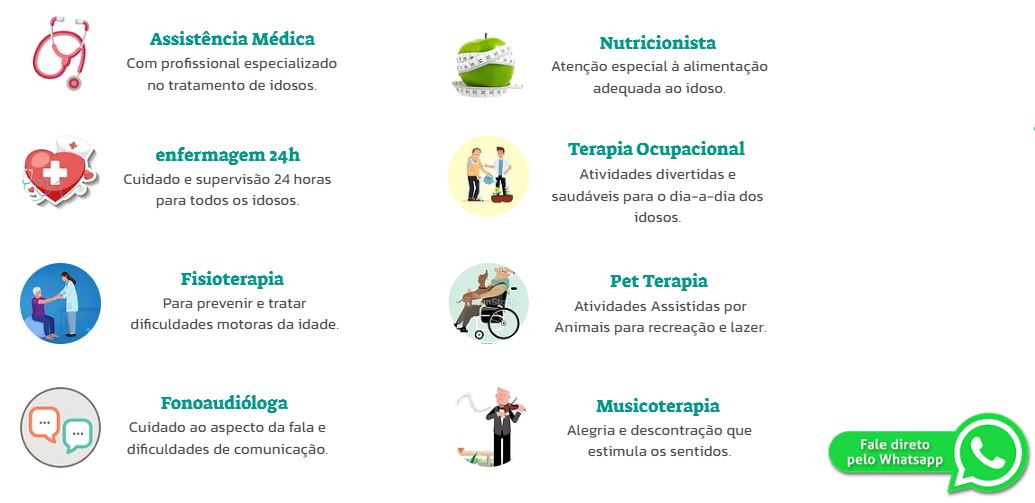
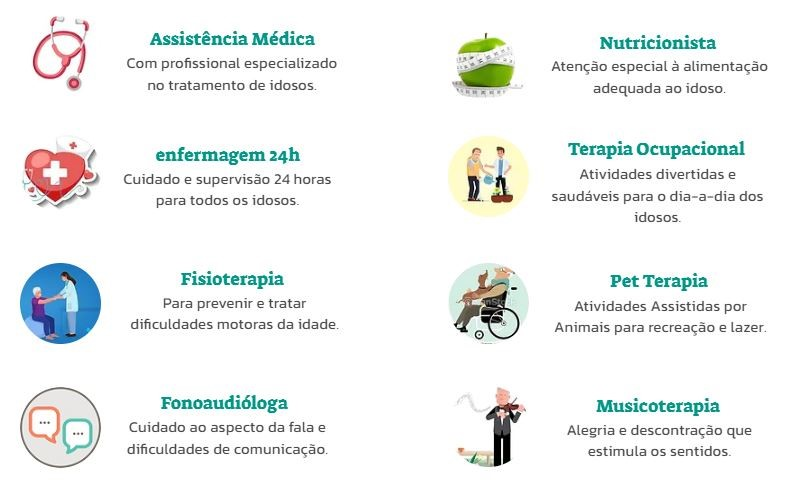
Redimencionar imagem da tela de seriviços

diff --git a/public/servicos.html b/public/servicos.html
@@ -115,7 +115,7 @@
         <div class="text-center pt-10">
             <div class="row shc">
                 <div>
-                    <img src="imagem03.jpg" align="right" style="width: 80%; height: auto;">
+                    <img src="imagem03.jpg" style="width: 60%; height: auto;">
                 </div>
 
                 <div class="col-md-12 shc">
@@ -127,12 +127,13 @@
                     </section>
 
                     <section id="listaDepoimentos">
-
+                        <!-- Lista de Depoimentos -->
                     </section>
                 </div>
             </div>
         </div>
     </div>
+
     <!-- SCRIPTS -->
     <script src="https://code.jquery.com/jquery-3.6.0.js" integrity="sha256-H+K7U5CnXl1h5ywQfKtSj8PCmoN9aaq30gDh27Xc0jk=" crossorigin="anonymous"></script>
     <script src="./servicos.js"></script>
